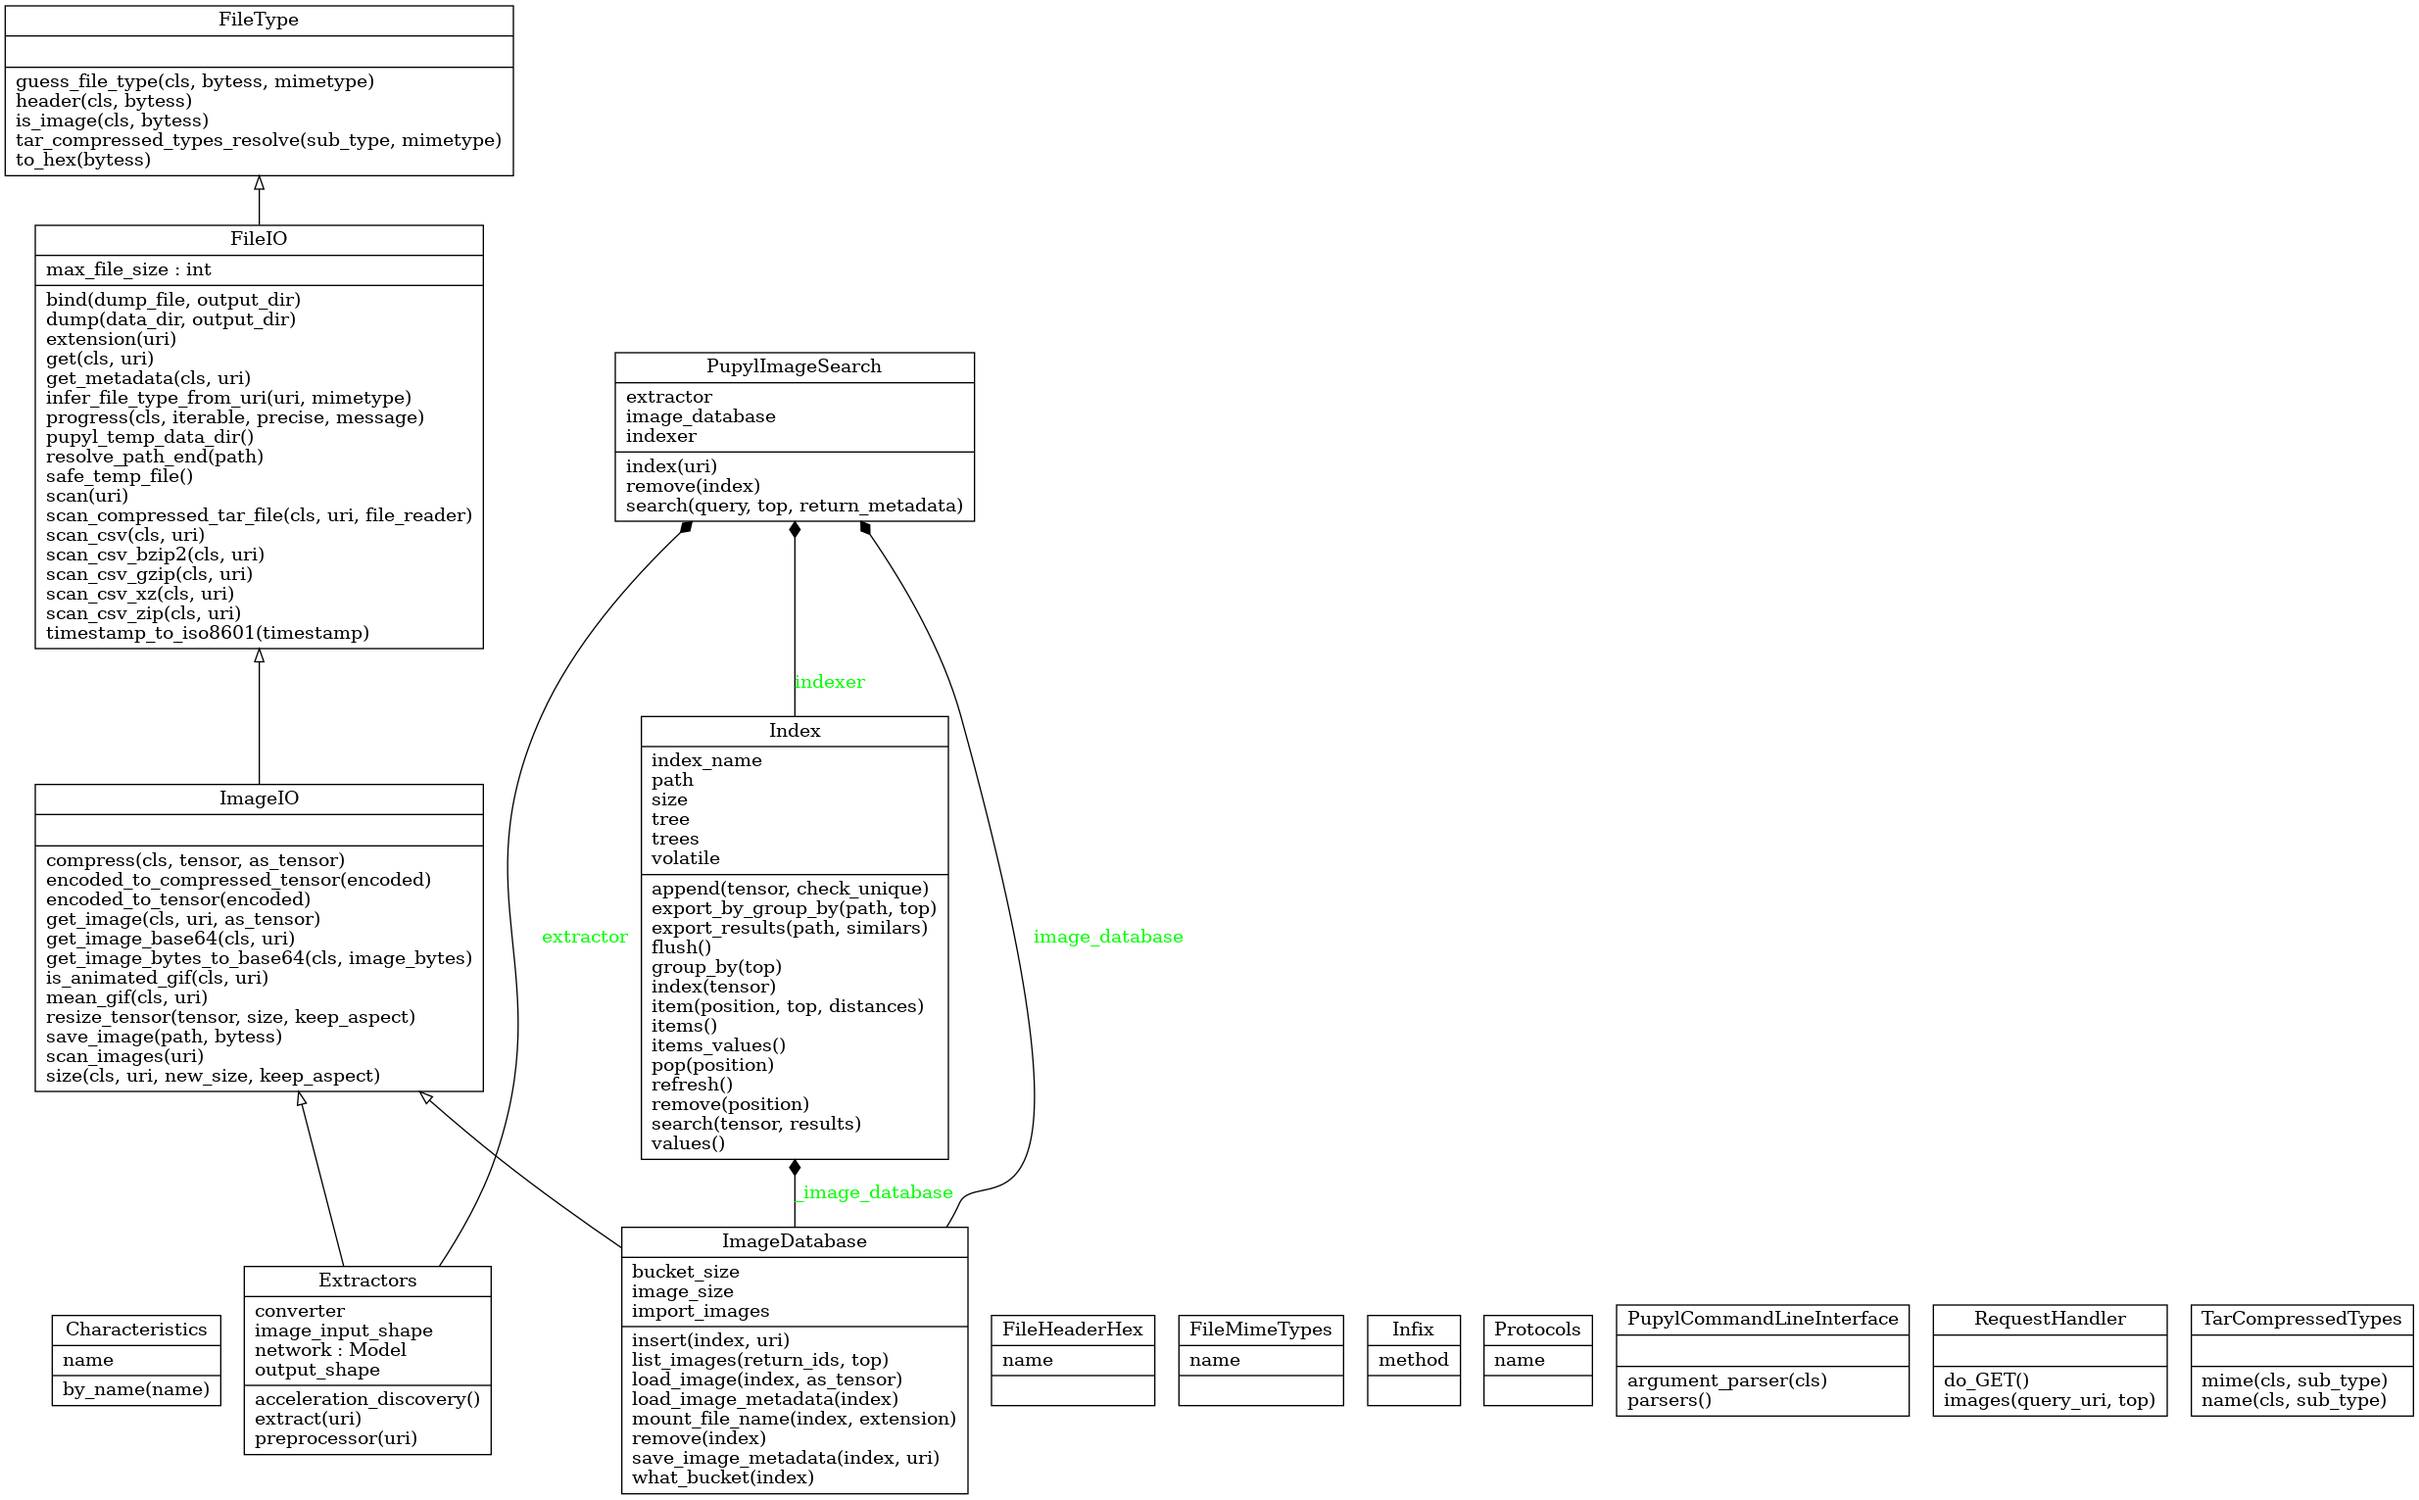
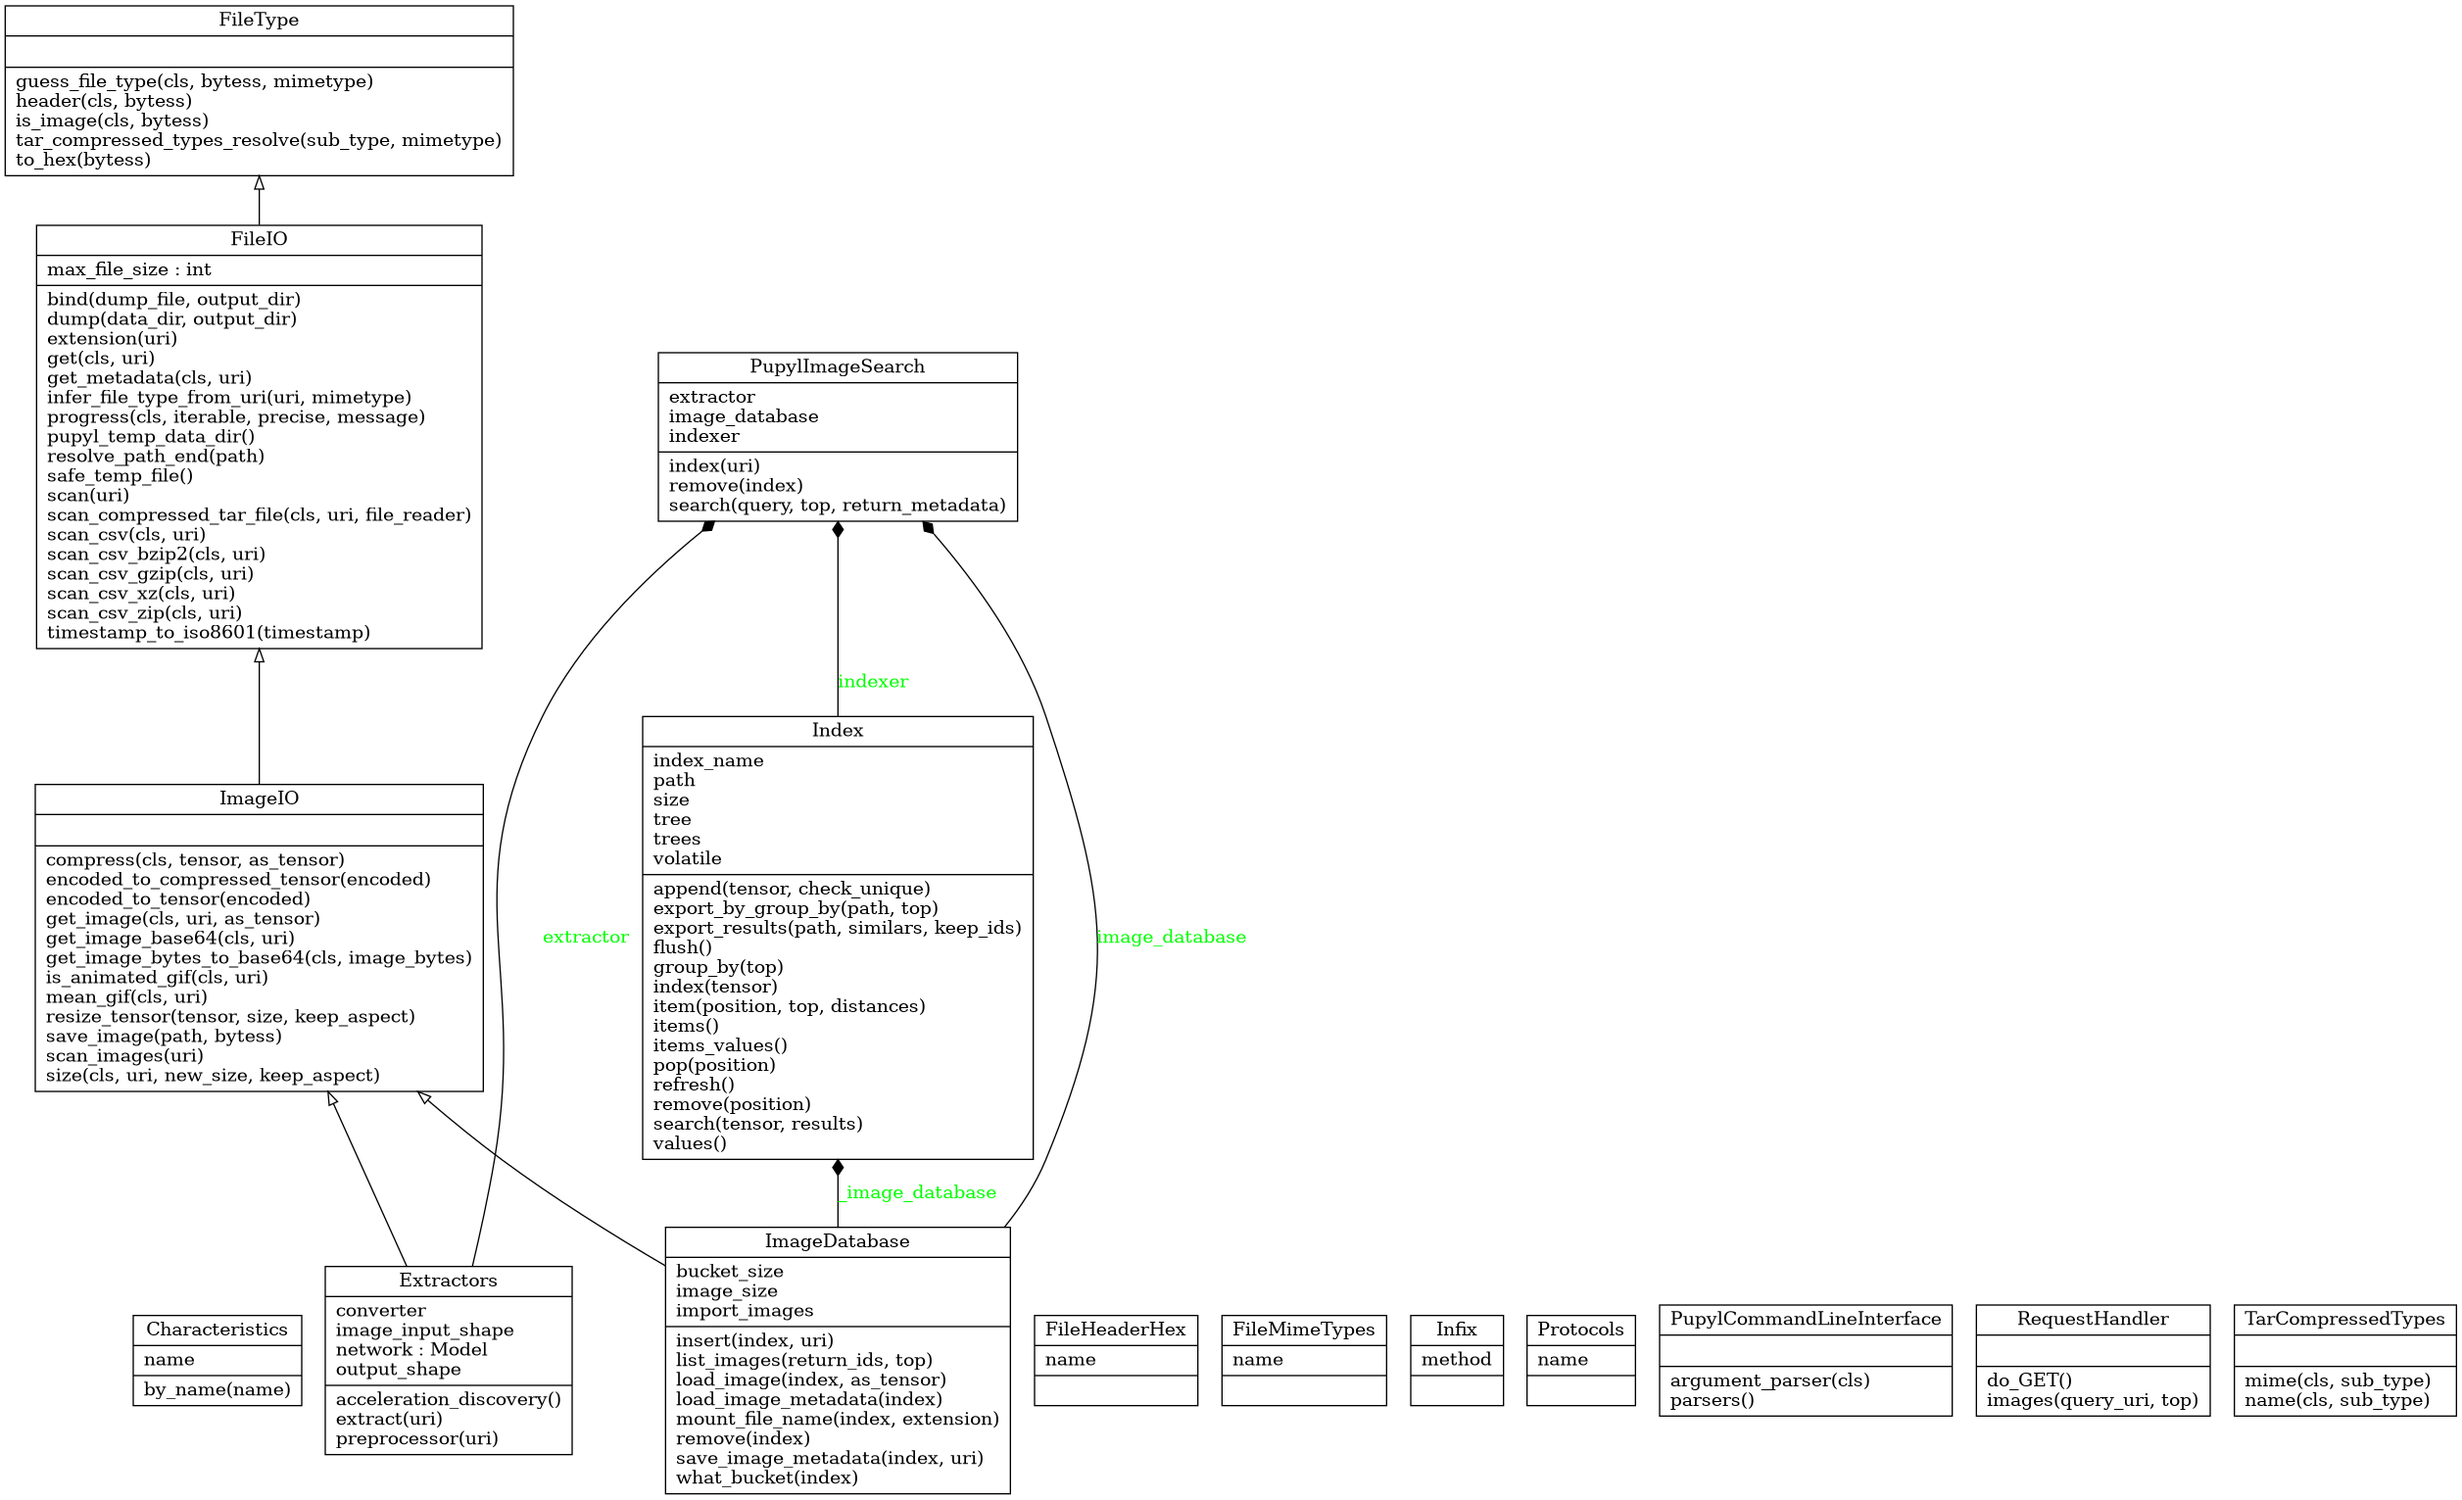
✨ Export and keep original image ids (#142)
* ✨ Keeping ids on export and version updates

* ✅ Fixing tests

* ✅ Fixing tests

diff --git a/pupyl/indexer/facets.py b/pupyl/indexer/facets.py
@@ -613,7 +613,7 @@ class Index:
 
             self.export_results(save_path, similars)
 
-    def export_results(self, path, similars):
+    def export_results(self, path, similars, keep_ids=False):
         """Export internal image at ``position`` by copying it to ``path``.
 
         Parameters
@@ -623,6 +623,9 @@ class Index:
 
         similars: iterable
             Containing image ids to export to ``path``.
+
+        keep_ids: bool
+            If the original ids must be preserved or not.
         """
         os.makedirs(path, exist_ok=True)
 
@@ -633,14 +636,13 @@ class Index:
                 filtered=['internal_path']
             )['internal_path']
 
-            file_extension = self._image_database.extension(
-                original_file_path
-            )
-
-            copy(
-                original_file_path,
-                os.path.join(
-                    path,
-                    f'{rank + 1}{file_extension}'
+            if keep_ids:
+                file_name = os.path.basename(original_file_path)
+            else:
+                file_extension = self._image_database.extension(
+                    original_file_path
                 )
-            )
+
+                file_name = f'{rank + 1}{file_extension}'
+
+            copy(original_file_path, os.path.join(path, file_name))

diff --git a/tests/test_facets.py b/tests/test_facets.py
@@ -413,3 +413,23 @@ def test_export_group_by_position():
                 assert os.path.exists(
                     os.path.join(new_temp_dir, '1', 'group.jpg')
                 )
+
+
+def test_export_results():
+    """Unit test for method export_results."""
+    test_vector_size = 2560
+
+    with tempfile.TemporaryDirectory() as temp_dir:
+        test_search = PupylImageSearch(temp_dir)
+        test_search.index(TEST_INDEX_EXPORT)
+
+        with tempfile.TemporaryDirectory() as new_temp_dir:
+            with Index(test_vector_size, data_dir=temp_dir) as index:
+                index.export_results(
+                    new_temp_dir, test_search.search(
+                        os.path.join(TEST_INDEX_EXPORT, '1.jpg')
+                    ),
+                    keep_ids=True
+                )
+
+                assert os.path.exists(os.path.join(new_temp_dir, '1.jpg'))

diff --git a/pupyl/cli.py b/pupyl/cli.py
@@ -95,6 +95,10 @@ class PupylCommandLineInterface:
             '--top', type=int, default=10, metavar='n',
             help='filters how many results to show.'
         )
+        export_parser.add_argument(
+            '--keep_ids', action='store_true',
+            help='should the original image ids must be preserved or not.'
+        )
 
         return parser
 
@@ -163,7 +167,8 @@ def pupyl():
 
     elif args.options == 'export':
         pupyl_search.indexer.export_results(
-            args.output, pupyl_search.search(args.query, top=args.top)
+            args.output, pupyl_search.search(args.query, top=args.top),
+            args.keep_ids
         )
     else:
         cli.parsers().print_help()

diff --git a/tests/test_cli.py b/tests/test_cli.py
@@ -68,11 +68,23 @@ def test_parser_export_case():
         'query': query_image,
         'output': output_dir,
         'options': sub_command,
-        'top': top
+        'top': top,
+        'keep_ids': False
     }
 
     args = CLI.argument_parser(
         commands=['--data_dir', data_dir, sub_command, query_image, output_dir]
+    )
+
+    assert vars(args) == expected_vars
+
+    expected_vars['keep_ids'] = True
+
+    args = CLI.argument_parser(
+        commands=[
+            '--data_dir', data_dir, sub_command, query_image, output_dir,
+            '--keep_ids'
+        ]
     )
 
     assert vars(args) == expected_vars

diff --git a/setup.py b/setup.py
@@ -8,7 +8,7 @@ with open('README.md') as readme:
 
 setuptools.setup(
     name="pupyl",
-    version="0.13.1",
+    version="0.13.2",
     author="Nelson Forte",
     author_email="policratus@gmail.com",
     description="🧿 Pupyl is a really fast image search "
@@ -19,8 +19,8 @@ setuptools.setup(
     url="https://github.com/policratus/pupyl",
     packages=setuptools.find_packages(),
     install_requires=[
-        'tensorflow==2.7.0',
-        'keras==2.7.0',
+        'tensorflow==2.8.0',
+        'keras==2.8.0',
         'annoy==1.17.0'
     ],
     classifiers=[

diff --git a/pupyl/embeddings/features.py b/pupyl/embeddings/features.py
@@ -10,8 +10,8 @@ from pupyl.verbosity import quiet_tf
 quiet_tf()
 
 import tensorflow
-import tensorflow.keras.backend as backend
-import tensorflow.keras.applications as networks
+import keras.backend as backend
+import keras.applications as networks
 
 from pupyl.duplex.image import ImageIO
 from pupyl.embeddings import exceptions

diff --git a/docs/source/conf.py b/docs/source/conf.py
@@ -11,7 +11,7 @@ project = '🧿 pupyl'
 copyright = f'{datetime.today().year}, Nelson Forte'
 author = 'Nelson Forte'
 
-release = '0.13.1'
+release = '0.13.2'
 version = release
 
 # -- General configuration ---------------------------------------------------

diff --git a/pupyl/search.py b/pupyl/search.py
@@ -5,7 +5,7 @@ Pupyl is a really fast image search library which you
 can index your own (millions of) images and find similar
 images in milliseconds.
 """
-__version__ = 'v0.13.1'
+__version__ = 'v0.13.2'
 
 
 import os
